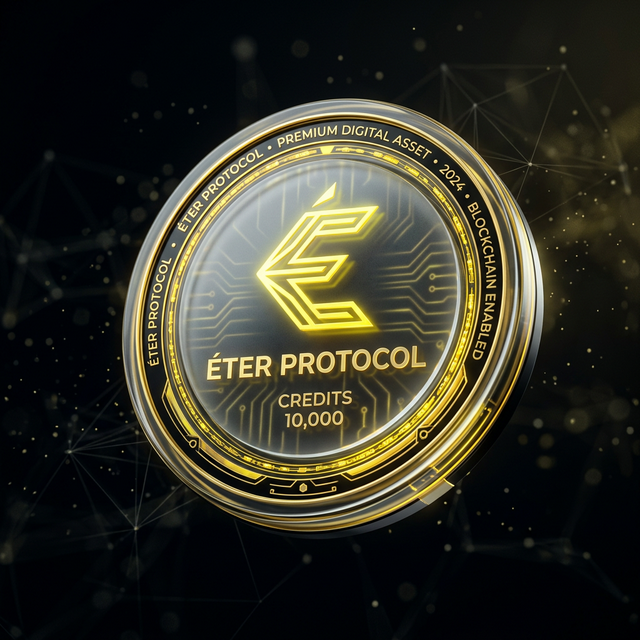
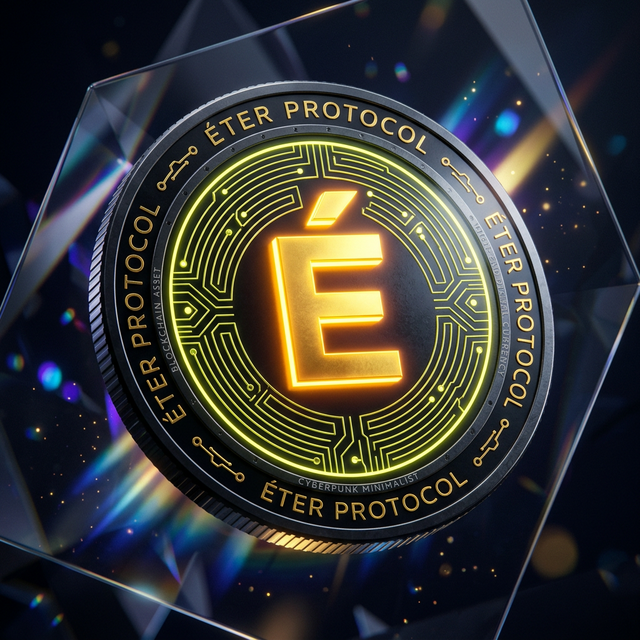
style: enhance checkout UI with Éter Protocol coin and improved credit purchase flow

diff --git a/src/app/checkout/page.tsx b/src/app/checkout/page.tsx
@@ -15,6 +15,7 @@ function CheckoutHandler() {
     const [status, setStatus] = useState('Sincronizando con Meta...')
     const [error, setError] = useState<string | null>(null)
     const [processed, setProcessed] = useState(false)
+    const isCreditPurchase = !searchParams.get('products')
 
     useEffect(() => {
         // Only run once
@@ -174,9 +175,20 @@ function CheckoutHandler() {
                                     key="loading"
                                     initial={{ opacity: 0 }}
                                     animate={{ opacity: 1 }}
-                                    className="p-6 bg-yellow-500/10 rounded-3xl mb-8 relative"
+                                    className="p-6 bg-yellow-500/10 rounded-3xl mb-8 relative flex items-center justify-center overflow-hidden"
                                 >
-                                    <ShoppingBag size={64} className="text-yellow-500" />
+                                    {isCreditPurchase ? (
+                                        <motion.img
+                                            initial={{ rotateY: 0 }}
+                                            animate={{ rotateY: 360 }}
+                                            transition={{ duration: 3, repeat: Infinity, ease: "linear" }}
+                                            src="/images/credit-token.png"
+                                            alt="Éter Protocol Coin"
+                                            className="w-20 h-20 object-contain drop-shadow-[0_0_20px_rgba(200,138,4,0.5)]"
+                                        />
+                                    ) : (
+                                        <ShoppingBag size={64} className="text-yellow-500" />
+                                    )}
                                     <div className="absolute inset-0 border-2 border-yellow-500/30 rounded-3xl animate-[ping_2s_infinite]" />
                                 </motion.div>
                             )}
